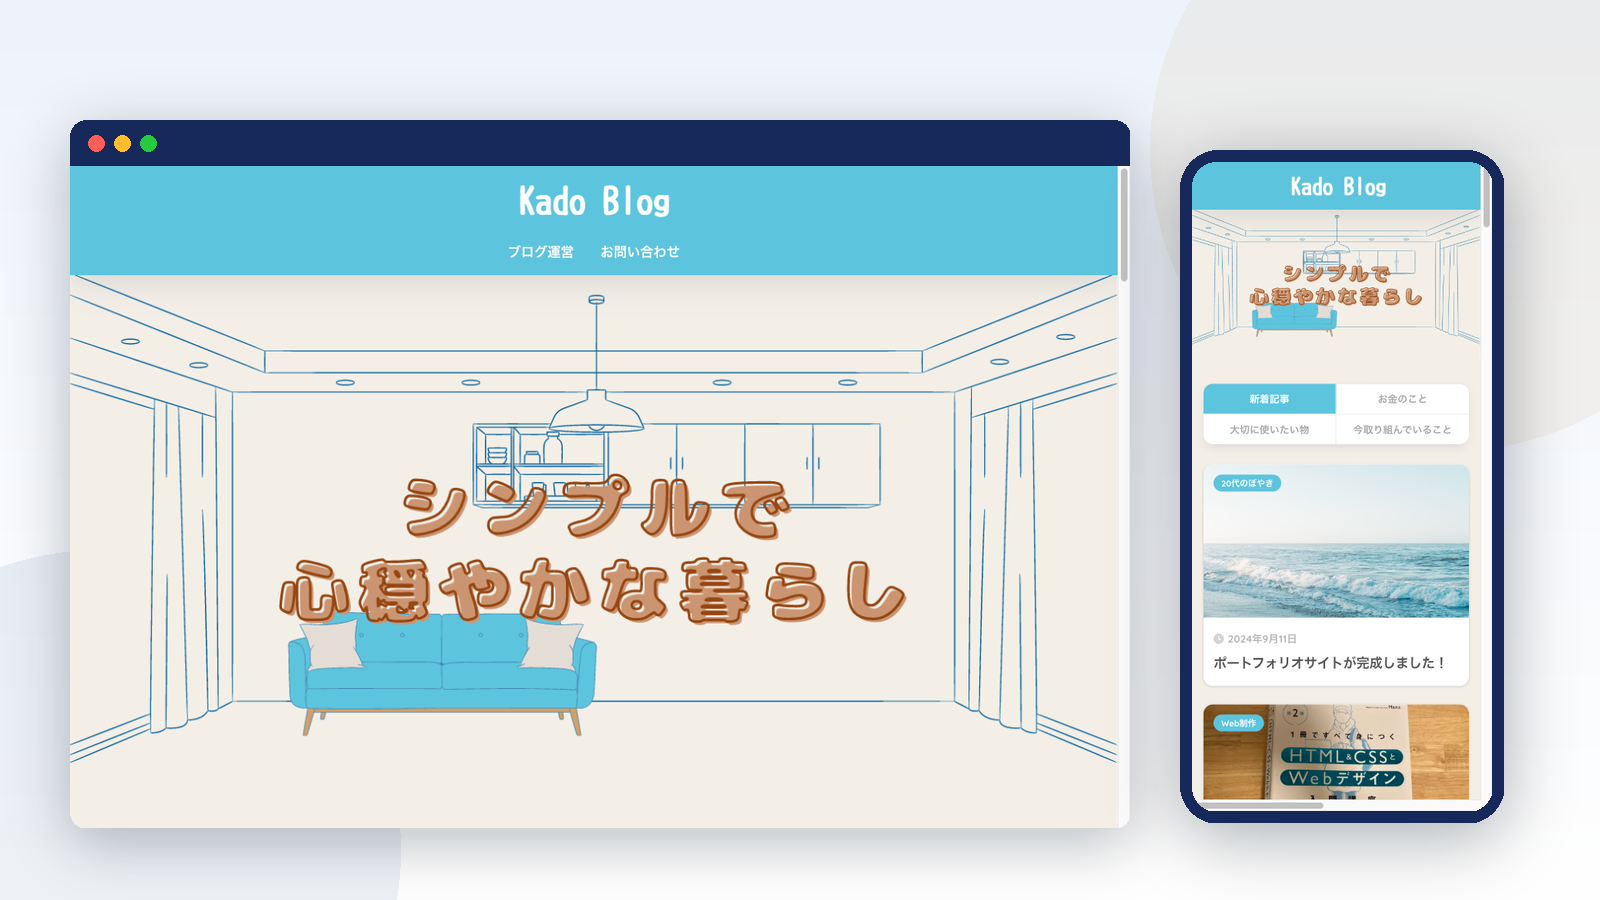
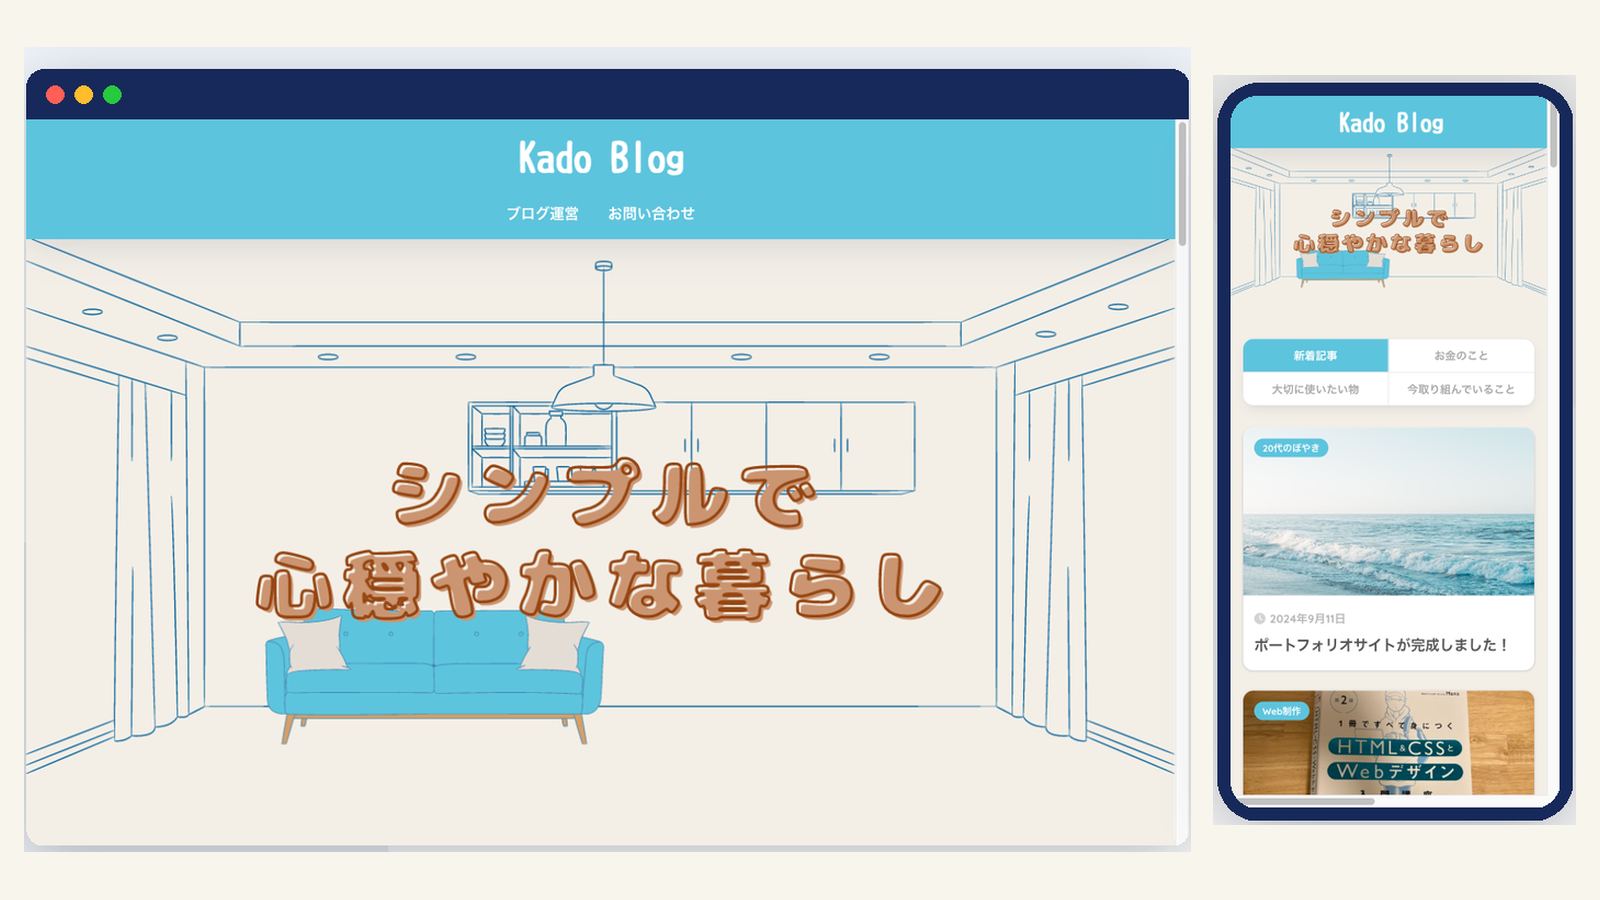
feat: WORKS作品サムネイル4枚の装飾背景を削除しモックアップを拡大
genel-top.png / onomichi.png / minami-clinic.png / blog-media.png は
いずれも同一テンプレート（PC:x70-1129, SP:x1180-1503, y120-827）で
生成されており、円形・曲線の淡いグレー装飾背景とモックアップ周囲の
余白が目立っていた。

4画像とも装飾背景を検出・除去し、無地のクリーム系背景（#F8F5ED）に
差し替えた上で、PC/SPモックアップ自体をそれぞれ元比率を保ったまま
拡大配置（PC幅は画像全体の約73%）。padding/gapは24px前後に圧縮し、
作品スクリーンショットの内容・比率・色味は一切変更していない。

あわせて、SnapOnomichi（onomichi-k-codeworks.com）にBasic認証が
かかっていることが判明したため、みなみ歯科クリニックと同様に
閲覧用の認証情報（onomichi / demo）をworksDataの説明文に追記。

Claude-Session: https://claude.ai/code/session_017hkWUornLUR84JgGG4xm7q

diff --git a/js/main.js b/js/main.js
@@ -176,9 +176,9 @@ const worksData = {
   onomichi: {
     category: "LP / 課題制作",
     title: "デイトラ課題LP「SnapOnomichi」",
-    image: "img/onomichi.png?v=20260705",
+    image: "img/onomichi.png?v=20260829",
     description:
-      "デイトラの課題として取り組んだLPです。実案件ではなく、指定デザインをもとにレスポンシブ対応と動きの実装を行いました。",
+      "デイトラの課題として取り組んだLPです。実案件ではなく、指定デザインをもとにレスポンシブ対応と動きの実装を行いました。ベーシック認証がかかっているため、閲覧時はユーザー名 onomichi / パスワード demo を入力してください。",
     role: "課題対応：コーディング・レスポンシブ調整",
     techs: ["HTML", "CSS", "JavaScript", "FLOCSS", "BEM"],
     highlights: [
@@ -201,7 +201,7 @@ const worksData = {
   blog: {
     category: "Media",
     title: "個人運営ブログメディア",
-    image: "img/blog-media.png?v=20260705",
+    image: "img/blog-media.png?v=20260829",
     description:
       "お金・仕事・暮らしをテーマにした個人メディア（累計400記事以上）。検索意図に合わせて、記事構成と内部導線を整理しています。",
     role: "企画・執筆・サイト運営・SEO対策",
@@ -226,7 +226,7 @@ const worksData = {
   genel: {
     category: "Corporate",
     title: "GeneL inc. コーポレートサイト",
-    image: "img/genel-top.png?v=20260705",
+    image: "img/genel-top.png?v=20260829",
     description:
       "IT企業のコーポレートサイト。構成検討から参加し、採用ページのコーディングを担当しました。",
     role: "ワイヤーフレーム・デザイン参加・recruitページコーディング（チーム開発）",
@@ -251,7 +251,7 @@ const worksData = {
   minamiClinic: {
     category: "WordPress / 課題制作",
     title: "デイトラ課題サイト「みなみ歯科クリニック」",
-    image: "img/minami-clinic.png?v=20260705",
+    image: "img/minami-clinic.png?v=20260829",
     description:
       "デイトラの課題として取り組んだ歯科医院向けWordPressサイトです。実案件ではなく、デモ環境のため、閲覧時はユーザー名 demo / パスワード demo を入力してください。",
     role: "課題対応：WordPress構築・コーディング・レスポンシブ調整",

diff --git a/index.html b/index.html
@@ -391,7 +391,7 @@
               aria-label="GeneL inc. コーポレートサイトの詳細を見る"
             >
               <img
-                src="img/genel-top.png?v=20260705"
+                src="img/genel-top.png?v=20260829"
                 loading="lazy"
                 decoding="async"
                 alt="GeneL inc."
@@ -419,7 +419,7 @@
               aria-label="個人運営メディアの詳細を見る"
             >
               <img
-                src="img/blog-media.png?v=20260705"
+                src="img/blog-media.png?v=20260829"
                 loading="lazy"
                 decoding="async"
                 alt="ブログメディア"
@@ -442,7 +442,7 @@
               aria-label="デイトラ課題LPの詳細を見る"
             >
               <img
-                src="img/onomichi.png?v=20260705"
+                src="img/onomichi.png?v=20260829"
                 loading="lazy"
                 decoding="async"
                 alt="SnapOnomichi"
@@ -468,7 +468,7 @@
               aria-label="歯科医院課題サイトの詳細を見る"
             >
               <img
-                src="img/minami-clinic.png?v=20260705"
+                src="img/minami-clinic.png?v=20260829"
                 loading="lazy"
                 decoding="async"
                 alt="みなみ歯科クリニック"
@@ -1639,6 +1639,6 @@
     </footer>
 
     <!-- Main JavaScript -->
-    <script src="js/main.js?v=20260829e"></script>
+    <script src="js/main.js?v=20260829f"></script>
   </body>
 </html>
